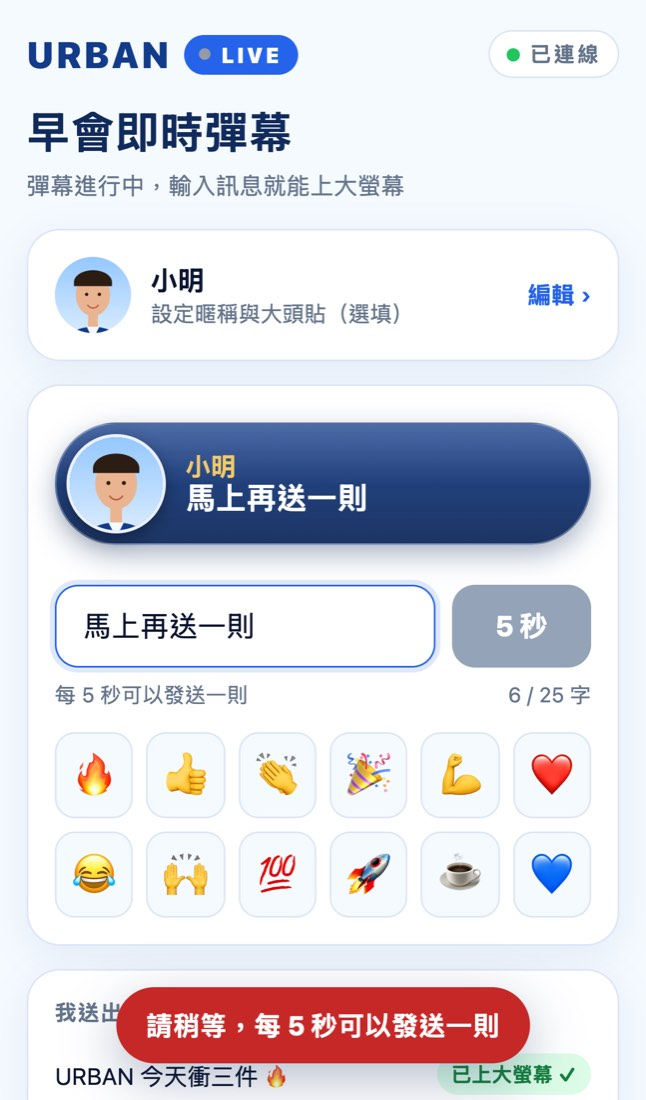
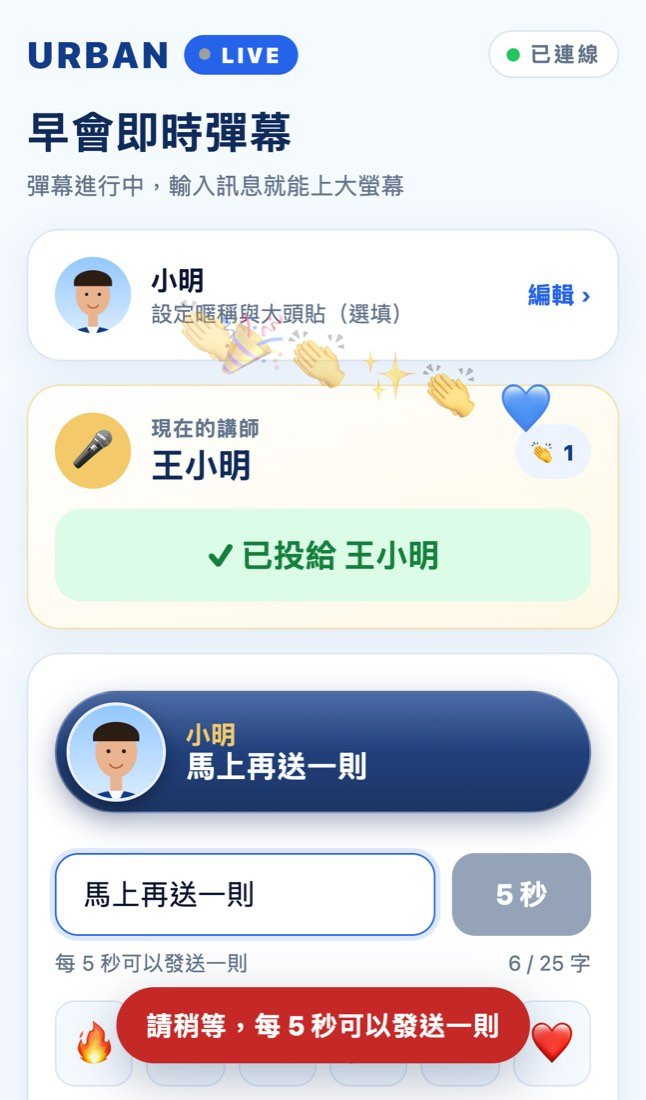
Add screenshots of voting and statistics screens
Claude-Session: https://claude.ai/code/session_01TyuSEbCwExjNEBf59MTGwE

diff --git a/docs/GUIDE.md b/docs/GUIDE.md
@@ -183,6 +183,8 @@ PowerPoint 也一樣測一次；PowerPoint 的保底做法是「投影片放映 
 | 講師超棒票數 | 本場所有講師的票數合計；下方列出每位講師的票數與在場人數 |
 | 換名次數 XD | 有人把暱稱換成另一個名字就算一次（第一次設定、重新連線不算），並列出「👑 換名王」和他用過的名字 |
 
+![投票與統計分頁](images/panel-stats.jpg)
+
 按「**在大螢幕顯示本場數據**」可以把這些數字投到大螢幕上（會議結束前很適合）。
 
 ![本場數據](images/session-summary.jpg)
